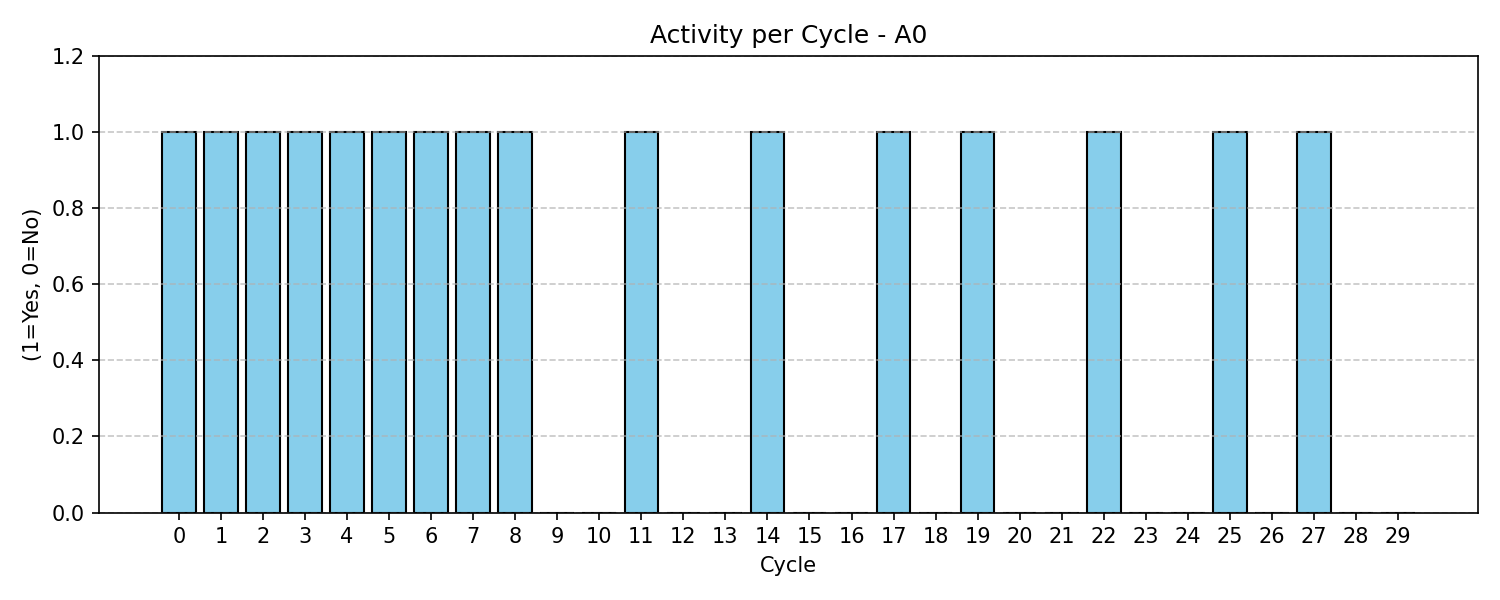
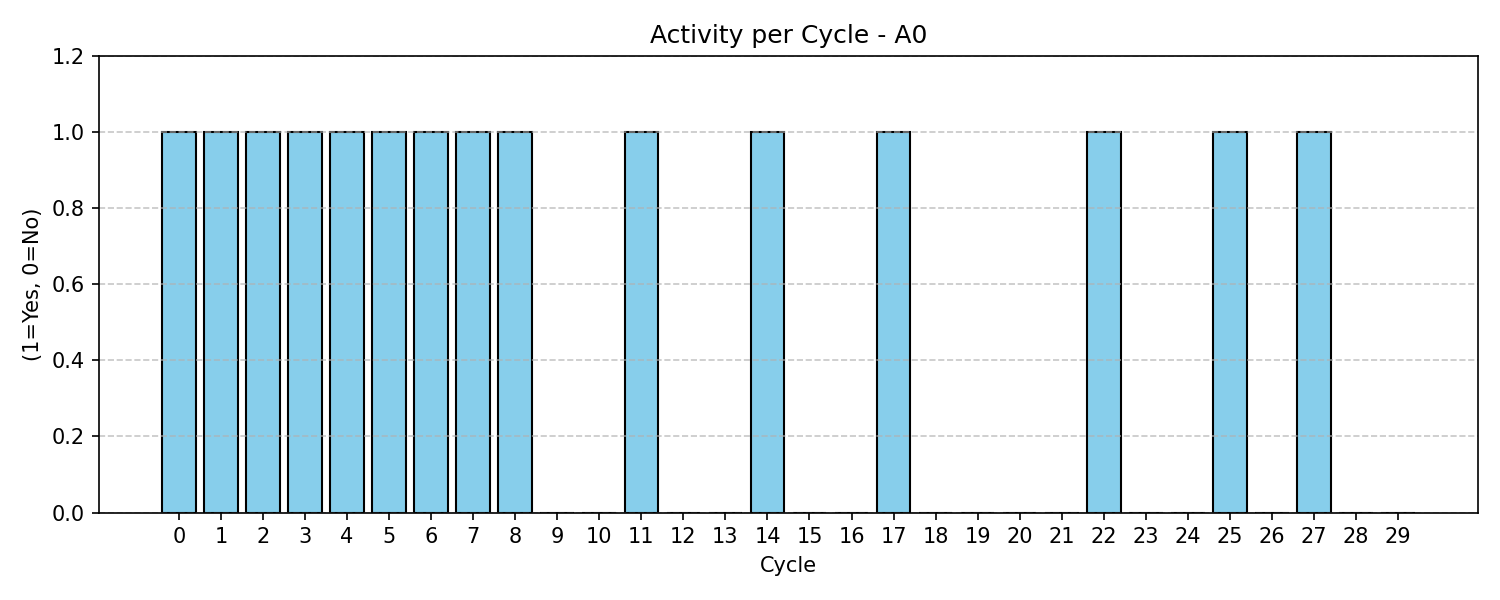
switch arbitration and added wrapper funcs

Changed region(s): [[0.6133, 0.21, 0.6747, 0.87]]

diff --git a/inputs/switch.py b/inputs/switch.py
@@ -54,8 +54,14 @@ class Switch(Node):
         if num_inputs == 0:
             return
 
+        output_ports = self.get_output_ports()
+        output_port = next(iter(output_ports.values()))
+
         # Round-robin over input ports
         for i in range(num_inputs):
+            if output_port.get_credit() == 0:
+                break
+
             port_idx = (self.get_rr_index() + i) % num_inputs
             input_port = input_ports[port_idx]
             pkt = self.recv_pkt(input_port.get_port_id(), cycle)
@@ -66,20 +72,18 @@ class Switch(Node):
                 self.set_rr_index((port_idx + 1) % num_inputs)
                 break
 
-        output_ports = self.get_output_ports()
-        output_port = next(iter(output_ports.values()))
-
         # Check if packets in the pipeline is ready to be forwarded
         if self.get_pipeline():
             ready_cycle, pkt, input_port_id = self.get_pipeline()[0]
             if ready_cycle == cycle:
-                self.get_pipeline().popleft()
-                if self.send_pkt(pkt, output_port.get_port_id(), cycle) == 0:
+                val = self.send_pkt(pkt, output_port.get_port_id(), cycle) 
+                if val == 0:
                     logger.info(f"Switch forwarded packet {pkt.get_pkt_id()} from {input_port_id} to {output_port.get_port_id()}")
-                    self.get_stats().incr_counter(f"pkts_forwarded")
-                    self.get_stats().record_cycle(f"{self.get_node_id()}", cycle, True)
+                    self.get_pipeline().popleft()
+                    self.incr_counter(f"pkts_forwarded")
+                    self.record_cycle(f"{self.get_node_id()}", cycle, True)
                 else:
-                    logger.error(f"Switch unable to send packet {pkt.get_pkt_id()}")
+                    logger.error(f"Switch unable to send packet {pkt.get_pkt_id()} - error code: {val}")
 
     def finalize(self):
         logger.info(f"Node {self.get_node_id()} stats:")

diff --git a/inputs/consumer.py b/inputs/consumer.py
@@ -29,8 +29,9 @@ class Consumer(Node):
         @param      cycle - an integer representing current simulation time.
         """
         self.get_stats().record_cycle(f"{self.get_node_id()}", cycle, False)
-        # if cycle % self.rate  != 0:
-        #     return
+
+        if cycle % self.rate  != 0:
+            return
 
         input_ports = self.get_input_ports()
         input_port = next(iter(input_ports.values()))
@@ -38,8 +39,8 @@ class Consumer(Node):
         pkt = self.recv_pkt(input_port.get_port_id(), cycle)
         if pkt:
             logger.info(f"{self.get_node_id()} received packet {pkt.get_pkt_id()} on {input_port.get_port_id()}")
-            self.get_stats().incr_counter(f"pkts_recvd")
-            self.get_stats().record_cycle(f"{self.get_node_id()}", cycle, True)
+            self.incr_counter(f"pkts_recvd")
+            self.record_cycle(f"{self.get_node_id()}", cycle, True)
 
     def finalize(self):
         logger.info(f"Node {self.get_node_id()} stats:")

diff --git a/inputs/producer.py b/inputs/producer.py
@@ -57,11 +57,11 @@ class Producer(Node):
 
         if self.send_pkt(packet, output_port.get_port_id(), cycle) < 0:
             logger.warning(f"{self.get_node_id()} unable to send packet {pkt_id}")
-            self.get_stats().incr_counter(f"pkts_failed")
+            self.incr_counter(f"pkts_failed")
         else:
             logger.info(f"{self.get_node_id()} sent packet {pkt_id} => curr_credit = {output_port.get_credit()}")
-            self.get_stats().incr_counter(f"pkts_sent")
-            self.get_stats().record_cycle(f"{self.get_node_id()}", cycle, True)
+            self.incr_counter(f"pkts_sent")
+            self.record_cycle(f"{self.get_node_id()}", cycle, True)
 
     def finalize(self):
         logger.info(f"Node {self.get_node_id()} stats:")

diff --git a/src/node.py b/src/node.py
@@ -33,6 +33,14 @@ class Node:
         assert stats is not None, "Error: stats object cannot be None"
         self.__stats = stats
 
+    # wrapper over incr_counter() in Stats
+    def incr_counter(self, name):
+        self.get_stats().incr_counter(name)
+
+    # wrapper over record_cycle() in Stats
+    def record_cycle(self, name, cycle, val):
+        self.get_stats().record_cycle(name, cycle, val)
+
     def set_node_id(self, node_id: str):
         """
         @brief      Assigns the node_id to the Node object.

diff --git a/src/port.py b/src/port.py
@@ -182,4 +182,4 @@ class OutputPort(Port):
 
             return status
 
-        return -1
+        return -10
